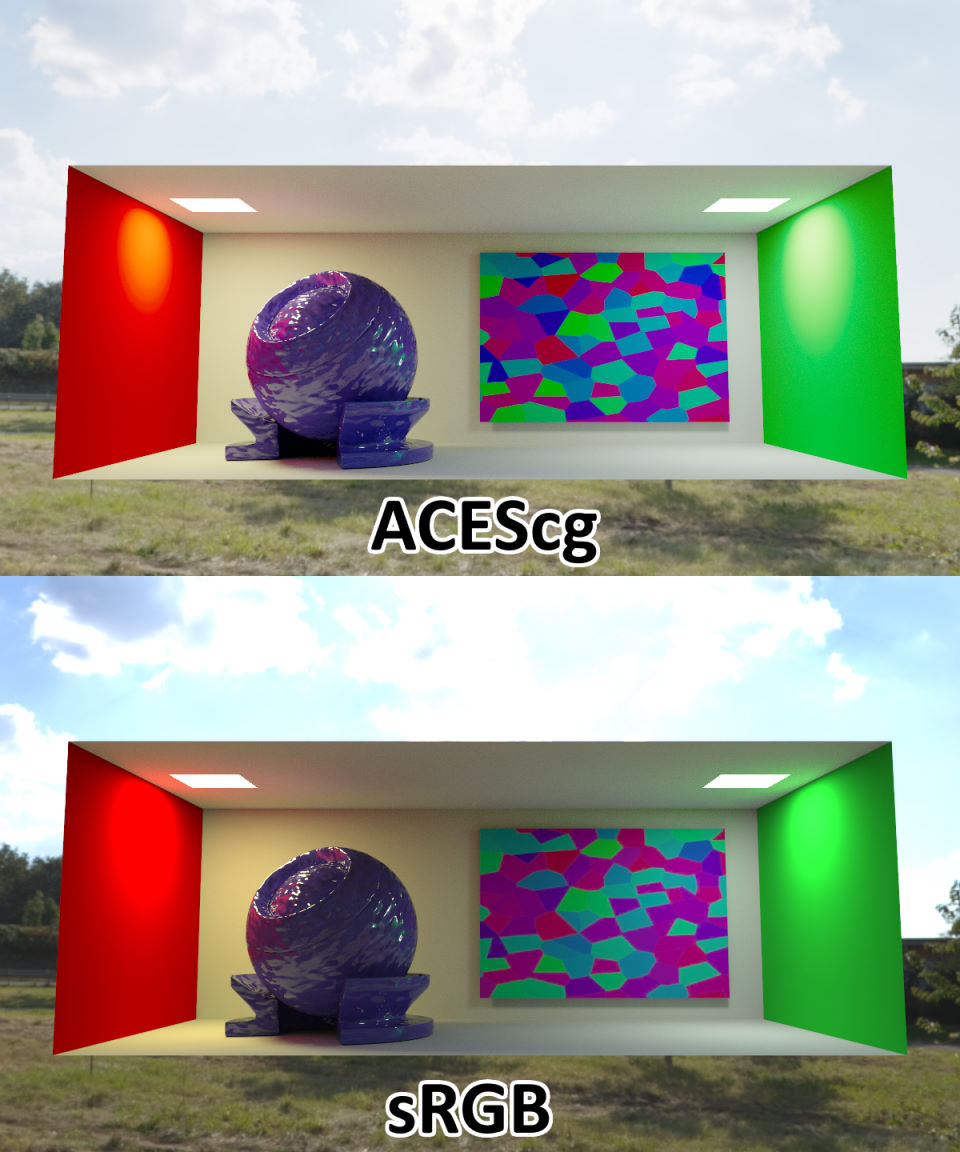
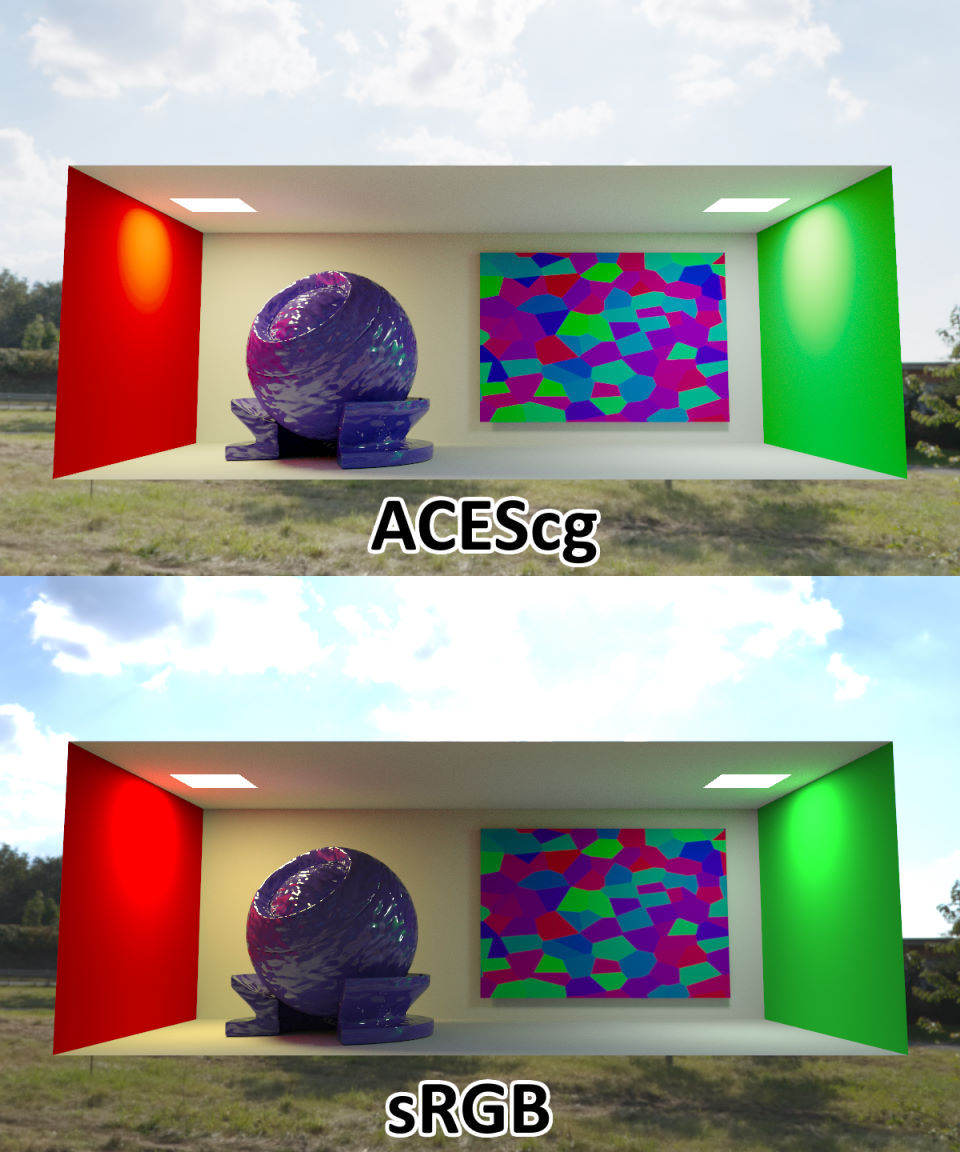
Demo - add Material Per Face

Changed region(s): [[0.5, 0.7188, 0.7812, 0.875], [0.9688, 0.75, 1.0, 0.8125], [0.2812, 0.75, 0.3125, 0.7812]]

diff --git a/tutorials/34_material_per_face/main.cpp b/tutorials/34_material_per_face/main.cpp
@@ -1,0 +1,222 @@
+/*****************************************************************************\
+*
+*  Module Name    Per Face Material Demo
+*  Project        Radeon ProRender rendering tutorial
+*
+*  Description    Radeon ProRender SDK tutorials 
+*
+*  Copyright(C) 2011-2022 Advanced Micro Devices, Inc. All rights reserved.
+*
+\*****************************************************************************/
+
+#include "RadeonProRender.h"
+#include "Math/mathutils.h"
+#include "../common/common.h"
+#include <cassert>
+#include <iostream>
+
+//
+// Demo of the rprShapeSetMaterialFaces API. This allows to set materials for specific faces of the shape.
+//
+
+// garbage collector of this demo
+RPRGarbageCollector g_gc;
+
+int main()
+{
+	//	for Debugging you can enable Radeon ProRender API trace
+	//	set this before any RPR API calls
+	//	rprContextSetParameterByKey1u(0,RPR_CONTEXT_TRACING_ENABLED,1);
+
+	// the RPR context object.
+	rpr_context context = nullptr;
+
+	// Register the RPR DLL
+	rpr_int tahoePluginID = rprRegisterPlugin(RPR_PLUGIN_FILE_NAME); 
+	CHECK_NE(tahoePluginID , -1);
+	rpr_int plugins[] = { tahoePluginID };
+	size_t pluginCount = sizeof(plugins) / sizeof(plugins[0]);
+
+	// Create context
+	CHECK( rprCreateContext(RPR_API_VERSION, plugins, pluginCount, g_ContextCreationFlags, NULL, NULL, &context) );
+
+	// Set the active plugin.
+	CHECK(  rprContextSetActivePlugin(context, plugins[0]) );
+
+	std::cout << "RPR Context creation succeeded." << std::endl;
+
+	// Create the scene. 
+	rpr_scene scene = nullptr;
+	CHECK( rprContextCreateScene(context, &scene) ); 
+	CHECK( rprContextSetScene(context, scene) );
+
+	// Create the camera
+	rpr_camera camera = nullptr;
+	CHECK( rprContextCreateCamera(context, &camera) );
+	CHECK( rprCameraLookAt(camera, 0, 10, 12,    0, -2, 0,    0, 1, 0) );
+	CHECK( rprSceneSetCamera(scene, camera) );
+	
+	// Create an environment light
+	CHECK( CreateNatureEnvLight(context, scene, g_gc, 1.0f) );
+
+	// create the material system
+	rpr_material_system matsys = nullptr;
+	CHECK( rprContextCreateMaterialSystem(context, 0, &matsys) );
+
+
+
+	// create the shape plane 
+	rpr_shape plane = NULL;
+	{
+
+		const int gridSize = 4; // create a 3x3 grid (4*4 vertices)
+		vertex plane_data[gridSize*gridSize];
+
+		// grid dimensions
+		const float minGrid = -5.0f;
+		const float maxGrid = +5.0f;
+
+		// create grid
+		for(int y=0; y<gridSize; y++)
+		{
+			for(int x=0; x<gridSize; x++)
+			{
+				plane_data[y*gridSize+x].pos[0] = minGrid + (maxGrid-minGrid) / ((float)gridSize-1.0f) * ((float)x);
+				plane_data[y*gridSize+x].pos[1] = 0.0f;
+				plane_data[y*gridSize+x].pos[2] = minGrid + (maxGrid-minGrid) / ((float)gridSize-1.0f) * ((float)y);
+
+				plane_data[y*gridSize+x].norm[0] = 0.0f;
+				plane_data[y*gridSize+x].norm[1] = 1.0f;
+				plane_data[y*gridSize+x].norm[2] = 0.0f;
+
+				plane_data[y*gridSize+x].tex[0] = (plane_data[y*gridSize+x].pos[0] - minGrid) / (maxGrid - minGrid);
+				plane_data[y*gridSize+x].tex[1] = 1.0f - (plane_data[y*gridSize+x].pos[2] - minGrid) / (maxGrid - minGrid);
+			}
+		}
+
+		// create indices of the grid
+		rpr_int indices[(gridSize-1)*(gridSize-1)*4];
+		for(int y=0; y<gridSize-1; y++)
+		{
+			for(int x=0; x<gridSize-1; x++)
+			{
+				indices[  (x+y*(gridSize-1))*4 + 0  ] = y*gridSize+x  ;
+				indices[  (x+y*(gridSize-1))*4 + 1  ] = y*gridSize+(x+1)  ;
+				indices[  (x+y*(gridSize-1))*4 + 3  ] = (y+1)*gridSize+x  ;
+				indices[  (x+y*(gridSize-1))*4 + 2  ] = (y+1)*gridSize+(x+1)  ;
+			}
+		}
+
+		// create face list
+		rpr_int num_face_vertices[(gridSize-1)*(gridSize-1)];
+		for(int y=0; y<gridSize-1; y++)
+		{
+			for(int x=0; x<gridSize-1; x++)
+			{
+				num_face_vertices[  (x+y*(gridSize-1))  ] = 4; // use quad face: 4 vertices per face.
+			}
+		}
+
+		CHECK( rprContextCreateMesh(context,
+			(rpr_float const*)&plane_data[0], gridSize*gridSize, sizeof(vertex),
+			(rpr_float const*)((char*)&plane_data[0] + sizeof(rpr_float)*3), gridSize*gridSize, sizeof(vertex),
+			(rpr_float const*)((char*)&plane_data[0] + sizeof(rpr_float)*6), gridSize*gridSize, sizeof(vertex),
+			(rpr_int const*)indices, sizeof(rpr_int),
+			(rpr_int const*)indices, sizeof(rpr_int),
+			(rpr_int const*)indices, sizeof(rpr_int),
+			num_face_vertices, (gridSize-1)*(gridSize-1), &plane) );
+		g_gc.GCAdd(plane);
+
+		// attach the plane to the scene.
+		CHECK( rprSceneAttachShape(scene, plane));
+
+	}
+
+
+	// create the base material for the plane shape
+	{
+		rpr_material_node diffuseMaterial = nullptr;
+		rpr_image image2 = nullptr;
+		rpr_material_node materialImage2 = nullptr;
+
+		const std::string pathImageFileA = "../../Resources/Textures/flower.jpg";
+		rpr_status status = rprContextCreateImageFromFile(context, pathImageFileA.c_str(), &image2);
+		g_gc.GCAdd(image2);
+		if (status == RPR_ERROR_IO_ERROR)
+		{
+			std::cout << "Error : " << pathImageFileA << " not found.\n";
+			return status;
+		}
+		CHECK(status);
+
+		// This texture is using the classic 2.2 gamma compression.
+		CHECK( rprImageSetGamma(image2, 2.2f) );
+
+		CHECK(rprMaterialSystemCreateNode(matsys, RPR_MATERIAL_NODE_IMAGE_TEXTURE, &materialImage2));
+		g_gc.GCAdd(materialImage2);
+		CHECK(rprMaterialNodeSetInputImageDataByKey(materialImage2, RPR_MATERIAL_INPUT_DATA, image2)); // Set image data
+
+		CHECK(rprMaterialSystemCreateNode(matsys, RPR_MATERIAL_NODE_DIFFUSE, &diffuseMaterial));
+		g_gc.GCAdd(diffuseMaterial);
+		CHECK(rprMaterialNodeSetInputNByKey(diffuseMaterial, RPR_MATERIAL_INPUT_COLOR, materialImage2)); // set image sampler as the color input of diffuse material
+
+
+		// assign the material on the shape
+		CHECK(rprShapeSetMaterial(plane, diffuseMaterial));
+
+	}
+
+	// create a simple Red diffuse material
+	rpr_material_node diffuseRed = NULL;
+	CHECK( rprMaterialSystemCreateNode(matsys, RPR_MATERIAL_NODE_DIFFUSE,&diffuseRed) );
+	g_gc.GCAdd(diffuseRed);
+	CHECK( rprMaterialNodeSetInputFByKey(diffuseRed, RPR_MATERIAL_INPUT_COLOR, 1, 0.1, 0.05f, 1) );
+
+	// create a simple Blue diffuse material
+	rpr_material_node diffuseBlue = NULL;
+	CHECK( rprMaterialSystemCreateNode(matsys, RPR_MATERIAL_NODE_DIFFUSE,&diffuseBlue) );
+	g_gc.GCAdd(diffuseBlue);
+	CHECK( rprMaterialNodeSetInputFByKey(diffuseBlue, RPR_MATERIAL_INPUT_COLOR, 0.05f, 0.1f, 1, 1) );
+
+	// assign the Red material to faces '0' and '2'
+	rpr_int indicesList1[] = { 0, 2 };
+	CHECK( rprShapeSetMaterialFaces(plane, diffuseRed, indicesList1, sizeof(indicesList1) / sizeof(indicesList1[0]) ) );
+
+	// assign the Blue material to faces '5', '6' and '7'
+	rpr_int indicesList2[] = { 5, 6, 7 };
+	CHECK( rprShapeSetMaterialFaces(plane, diffuseBlue, indicesList2, sizeof(indicesList2) / sizeof(indicesList2[0]) ) );
+
+	// Create framebuffer 
+	rpr_framebuffer_desc desc = { 800 , 600 }; 
+	rpr_framebuffer_format fmt = {4, RPR_COMPONENT_TYPE_FLOAT32}; 
+	rpr_framebuffer frame_buffer = nullptr;
+	rpr_framebuffer frame_buffer_resolved = nullptr;
+	CHECK( rprContextCreateFrameBuffer(context, fmt, &desc, &frame_buffer) );
+	CHECK( rprContextCreateFrameBuffer(context, fmt, &desc, &frame_buffer_resolved) );
+	CHECK( rprContextSetAOV(context, RPR_AOV_COLOR, frame_buffer) );
+
+	// set rendering gamma
+	CHECK( rprContextSetParameterByKey1f(context, RPR_CONTEXT_DISPLAY_GAMMA , 2.2f ) );
+
+	// Render the scene
+	CHECK(rprContextSetParameterByKey1u(context,RPR_CONTEXT_ITERATIONS, 200));
+	CHECK( rprContextRender(context) );
+	CHECK(rprContextResolveFrameBuffer(context,frame_buffer,frame_buffer_resolved,false));
+	CHECK(rprFrameBufferSaveToFile(frame_buffer_resolved,"34.png"));
+
+
+	// Release the stuff we created
+	CHECK(rprObjectDelete(camera)); camera=nullptr;
+	CHECK(rprObjectDelete(frame_buffer)); frame_buffer=nullptr;
+	CHECK(rprObjectDelete(frame_buffer_resolved)); frame_buffer_resolved=nullptr;
+	g_gc.GCClean();
+	CHECK(rprObjectDelete(scene)); scene=nullptr;
+	CHECK(rprObjectDelete(matsys)); matsys=nullptr;
+	CheckNoLeak(context);
+	CHECK(rprObjectDelete(context)); context=nullptr;
+	return 0;
+}
+
+
+
+

diff --git a/tutorials/29_ocio/main.cpp b/tutorials/29_ocio/main.cpp
@@ -42,14 +42,6 @@
 // simple garbage collector for RPR objects.
 RPRGarbageCollector g_gc;
 
-// vertices data
-struct vertexP3N3T2
-{
-    rpr_float pos[3];
-    rpr_float norm[3];
-    rpr_float tex[2];
-};
-
 
 // Convert Color Space :
 // From Linear sRGB to ACEScg
@@ -80,7 +72,7 @@ RadeonProRender::float4 sRGB_to_ACEScg(const RadeonProRender::float4& srgb)
 
 
 // create a simple quad shape
-rpr_shape CreateQuad(rpr_context context, rpr_scene scene, vertexP3N3T2* meshVertices, unsigned int meshVertices_nbOfElement )
+rpr_shape CreateQuad(rpr_context context, rpr_scene scene, vertex* meshVertices, unsigned int meshVertices_nbOfElement )
 {
 	rpr_int indices[] = { 3,2,1,0, };
 	rpr_int num_face_vertices[] = { 4, };
@@ -90,9 +82,9 @@ rpr_shape CreateQuad(rpr_context context, rpr_scene scene, vertexP3N3T2* meshVer
 	rpr_shape mesh = nullptr;
 
     CHECK(  rprContextCreateMesh(context,
-        (rpr_float const*)&meshVertices[0], meshVertices_nbOfElement , sizeof(vertexP3N3T2),
-        (rpr_float const*)((char*)&meshVertices[0] + sizeof(rpr_float)*3), meshVertices_nbOfElement, sizeof(vertexP3N3T2),
-        (rpr_float const*)((char*)&meshVertices[0] + sizeof(rpr_float)*6), meshVertices_nbOfElement, sizeof(vertexP3N3T2),
+        (rpr_float const*)&meshVertices[0], meshVertices_nbOfElement , sizeof(vertex),
+        (rpr_float const*)((char*)&meshVertices[0] + sizeof(rpr_float)*3), meshVertices_nbOfElement, sizeof(vertex),
+        (rpr_float const*)((char*)&meshVertices[0] + sizeof(rpr_float)*6), meshVertices_nbOfElement, sizeof(vertex),
         (rpr_int const*)indices, sizeof(rpr_int),
         (rpr_int const*)indices, sizeof(rpr_int),
         (rpr_int const*)indices, sizeof(rpr_int),
@@ -106,7 +98,7 @@ rpr_shape CreateQuad(rpr_context context, rpr_scene scene, vertexP3N3T2* meshVer
 // Create a Quad shape on the YZ plane
 rpr_shape CreateQuad_YZ(rpr_context context, rpr_scene scene, float ax, float ay, float bx, float by, float X)
 {
-	vertexP3N3T2 meshVertices[] = 
+	vertex meshVertices[] = 
 	{
 		{  X, ax, by,  1.0f, 0.0f, 0.0f,    0.0f, 0.0f  },
 		{  X, bx, by,  1.0f, 0.0f, 0.0f,    1.0f, 0.0f  },
@@ -123,7 +115,7 @@ rpr_shape CreateQuad_YZ(rpr_context context, rpr_scene scene, float ax, float ay
 // Create a Quad shape on the XZ plane
 rpr_shape CreateQuad_XZ(rpr_context context, rpr_scene scene, float ax, float ay, float bx, float by, float Y, float normal)
 {
-	vertexP3N3T2 meshVertices[] = 
+	vertex meshVertices[] = 
 	{
 		{  ax, Y, by,  0.0f, normal, 0.0f,    0.0f, 0.0f  },
 		{  bx, Y, by,  0.0f, normal, 0.0f,    1.0f, 0.0f  },
@@ -140,7 +132,7 @@ rpr_shape CreateQuad_XZ(rpr_context context, rpr_scene scene, float ax, float ay
 // Create a Quad shape on the XY plane
 rpr_shape CreateQuad_XY(rpr_context context, rpr_scene scene, float ax, float ay, float bx, float by, float Z)
 {
-	vertexP3N3T2 meshVertices[] = 
+	vertex meshVertices[] = 
 	{
 		{  ax, by, Z,  0.0f, 0.0f, 1.0f,    0.0f, 0.0f  },
 		{  bx, by, Z,  0.0f, 0.0f, 1.0f,    1.0f, 0.0f  },
@@ -414,6 +406,14 @@ int main()
 			// then in most of the cases, "Utility - sRGB - Texture" should be set as Color Space.
 			// This means the texture is using the sRGB color space with a gamma correction.
 			CHECK( rprImageSetOcioColorspace(img , "Utility - sRGB - Texture") );
+		}
+		else
+		{
+			// art.jpg image is stored in the non-linear sRGB space.
+			// if we are not using the OCIO workflow, then we need to set the gamma for non-linear images ( like most of .png, .jpg... representing color )
+			// This gamma value is used to do a basic IDT operation, transforming the image from non-linear "Texture Colorspace" to a linear "Render Colorspace".
+			// In our case: from "non-linear sRGB" to "linear sRGB"
+			CHECK( rprImageSetGamma(img, 2.2) );
 		}
 
 		CHECK( rprMaterialSystemCreateNode(matsys, RPR_MATERIAL_NODE_IMAGE_TEXTURE, &imgSampler));

diff --git a/tutorials/common/common.h b/tutorials/common/common.h
@@ -162,7 +162,8 @@ public:
 
 
 //
-// Garbage Collector functions :
+// Simple Garbage Collector for Radeon ProRender objects.
+// Add RPR objects with GCAdd. Then call GCClean to clear each object
 //
 class RPRGarbageCollector
 {

diff --git a/tutorials/readme.md b/tutorials/readme.md
@@ -24,11 +24,12 @@ List of tutorials in this SDK
 | [Framebuffer access](31_framebuffer_access)                | ![](31_framebuffer_access/screenshot.png)           | Here we demonstrate usage of rprFrameBufferGetInfo: We can access the image data of a frame buffer. In this demo, we use the data of a first rendering and use it as an input texture for a second rendering. It also contains an example of DeepEXR framebuffer export. |
 | [OpenGL interop](32_gl_interop)                            | ![](32_gl_interop/screenshot.png)                   | Demo covering an RPR rendering inside an OpenGL app. |
 | [AOVs](33_aov)                                             | ![](33_aov/screenshot.png)                          | This demo covers AOV (Arbitrary Output Variables), providing way to render different material component - mostly used for scene debugging. |
+| [Material Per Face](34_material_per_face)                  | ![](34_material_per_face/screenshot.png)            | Demo of the rprShapeSetMaterialFaces API. This allows to set materials for specific faces of the shape. |
 | [Curves](50_curve)                                         | ![](50_curve/screenshot.png)                        | Demo covering Curves rendering. Curves are often used for hair rendering. |
 | [Volume](51_volume)                                        | ![](51_volume/screenshot.png)                       | This demo demonstrates Volumes with RPR |
 | [RPR Scene Export](60_mesh_export)                         | ![](60_mesh_export/screenshot.png)                  | Shows how to export an RPR scene as RPRS files ( native RPR file format ) or GLTF ( Khronos Group ). |
 | [RPR Scene Import](61_mesh_import)                         | ![](61_mesh_import/screenshot.png)                  | Shows how to import an RPR scene as RPRS files ( native RPR file format ) or GLTF ( Khronos Group ). It's advised to execute the demo "60_mesh_export" first in order to create the files used in this "61_mesh_import" Demo. |
 | [Hybrid](63_hybrid)                                        | ![](63_hybrid/screenshot.png)                       | This is a demo for the Hybrid.DLL plugin. |
-| [Mesh OBJ Demo](64_mesh_obj_demo)                          | ![](64_mesh_obj_demo/screenshot.png)                | Project that import and rendering any OBJ file with Radeon ProRender. |
+| [Mesh OBJ Demo](64_mesh_obj_demo)                          | ![](64_mesh_obj_demo/screenshot.png)                | Project that imports and renders any OBJ file with Radeon ProRender. |
 
 
